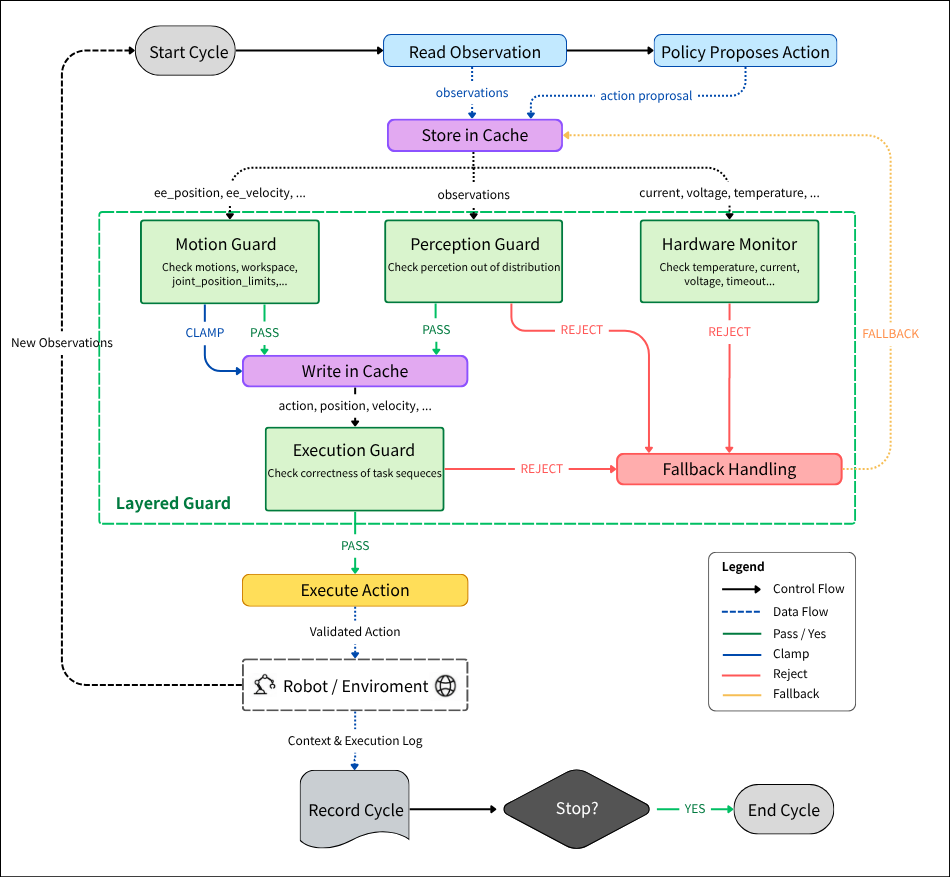
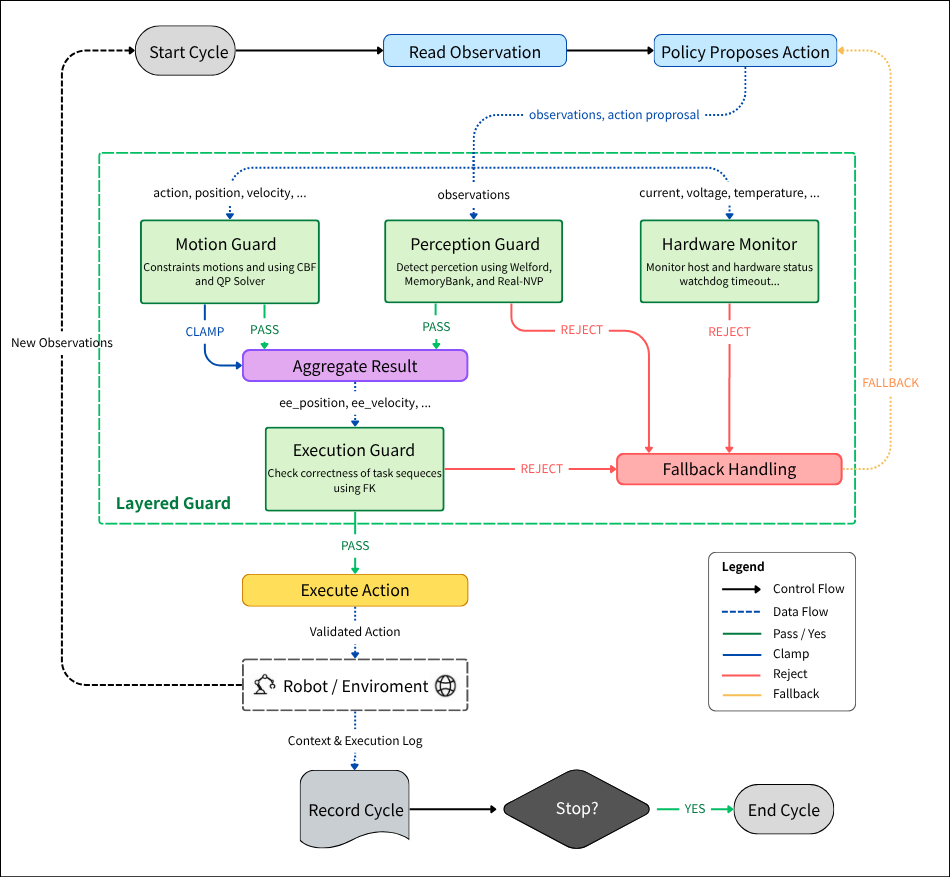
chore: update stackfiles, replay UI, risk log API, and docs diagram
Align stackfile examples with new L3 boundary callback schema. Update
replay page camera namespace, risk log router with enhanced filtering,
sidebar navigation, and runtime workflow diagram.

diff --git a/dam-console/src/components/McapCameraPlayer.tsx b/dam-console/src/components/McapCameraPlayer.tsx
@@ -276,20 +276,29 @@ export function McapCameraPlayer({
     setFrameIdx(nearestFrameIdx(refFrames, currentTimestampNs))
   }, [currentTimestampNs, framesMap, selectedCam, liveMode])
 
-  // Playback interval — fixed 100 ms tick (10 fps)
+  // Playback: advance frames at real-time speed based on actual timestamps.
   useEffect(() => {
     if (playIntervalRef.current) clearInterval(playIntervalRef.current)
     if (!playing || liveMode) return
-    const refFrames = selectedCam ? framesMap[selectedCam] : Object.values(framesMap)[0]
-    const total = refFrames?.length ?? 0
+    const refCamFrames = selectedCam ? framesMap[selectedCam] : Object.values(framesMap)[0]
+    const total = refCamFrames?.length ?? 0
     if (total === 0) return
+
+    // Compute median inter-frame interval for smooth playback at real speed
+    const intervals: number[] = []
+    for (let i = 1; i < Math.min(total, 100); i++) {
+      intervals.push((refCamFrames[i].log_time_ns - refCamFrames[i - 1].log_time_ns) / 1_000_000)
+    }
+    intervals.sort((a, b) => a - b)
+    const medianMs = intervals.length > 0 ? intervals[Math.floor(intervals.length / 2)] : 33
+    const tickMs = Math.max(16, Math.min(medianMs, 200))
 
     playIntervalRef.current = setInterval(() => {
       setFrameIdx(prev => {
         if (prev >= total - 1) { setPlaying(false); return prev }
         return prev + 1
       })
-    }, 100)
+    }, tickMs)
     return () => { if (playIntervalRef.current) clearInterval(playIntervalRef.current) }
   }, [playing, framesMap, selectedCam, liveMode])
 
@@ -353,7 +362,18 @@ export function McapCameraPlayer({
     setPlaying(false)
   }
 
-  const currentCams = liveMode ? liveCamList : cameras
+  const currentCams = (liveMode ? liveCamList : cameras).slice().sort((a, b) => {
+    const aReplay = a.startsWith('replay_') ? 0 : 1
+    const bReplay = b.startsWith('replay_') ? 0 : 1
+    if (aReplay !== bReplay) return aReplay - bReplay
+    const nameRank = (n: string) => {
+      const base = n.replace(/^replay_/, '')
+      if (base.includes('top')) return 0
+      if (base.includes('wrist')) return 1
+      return 2
+    }
+    return nameRank(a) - nameRank(b)
+  })
   const showGrid = gridMode && currentCams.length > 1
 
   return (
@@ -438,6 +458,13 @@ export function McapCameraPlayer({
               }
               const camFrames = framesMap[cam]
               const hasFrames = camFrames && camFrames.length > 0
+              // Time-sync: use the reference camera's timestamp to find the
+              // nearest frame in each camera independently, avoiding index-based
+              // drift when cameras have different frame counts.
+              const refTs = refFrames?.[frameIdx]?.log_time_ns
+              const camIdx = hasFrames && refTs != null
+                ? nearestFrameIdx(camFrames, refTs)
+                : hasFrames ? Math.min(frameIdx, camFrames.length - 1) : 0
               return (
                   <button
                     key={cam}
@@ -459,7 +486,7 @@ export function McapCameraPlayer({
                       <CameraCell
                         filename={filename}
                         cam={cam}
-                        frameIdx={hasFrames ? Math.min(frameIdx, camFrames.length - 1) : 0}
+                        frameIdx={camIdx}
                         tsNs={!hasFrames && currentTimestampNs != null ? currentTimestampNs : undefined}
                         label={cam}
                         compact

diff --git a/dam-console/src/lib/templates.ts b/dam-console/src/lib/templates.ts
@@ -114,8 +114,8 @@ type YamlSection = ScalarNode | BlockNode | ListNode | CustomNode | BlankNode
 
 const SO101_JOINTS: JointDef[] = [
   { name: 'shoulder_pan',  lower_rad: -1.8243, upper_rad:  1.8243 },
-  { name: 'shoulder_lift', lower_rad: -1.7691, upper_rad:  1.7691 },
-  { name: 'elbow_flex',    lower_rad: -1.6026, upper_rad:  1.6026 },
+  { name: 'shoulder_lift', lower_rad: -1.7500, upper_rad:  1.7500 },
+  { name: 'elbow_flex',    lower_rad: -1.8326, upper_rad:  1.8326 },
   { name: 'wrist_flex',    lower_rad: -1.8067, upper_rad:  1.8067 },
   { name: 'wrist_roll',    lower_rad: -3.0741, upper_rad:  3.0741 },
   { name: 'gripper',       lower_rad:  0,    upper_rad:  1.7453 },
@@ -197,7 +197,7 @@ function orderBoundaries(boundaries: BoundaryDef[]): BoundaryDef[] {
 }
 
 const DEFAULT_BOUNDARIES: BoundaryDef[] = orderBoundaries([...BASE_BOUNDARIES, GRIPPER_SEQUENCE_BOUNDARY])
-const REPLAY_BOUNDARIES: BoundaryDef[] = orderBoundaries([...BASE_BOUNDARIES])
+const REPLAY_BOUNDARIES: BoundaryDef[] = orderBoundaries([...BASE_BOUNDARIES, GRIPPER_SEQUENCE_BOUNDARY])
 
 const DEFAULT_FALLBACKS: FallbackDef[] = [
   { name: 'emergency_stop', type: 'emergency_stop', severity: 100, requires_proposal: false, monitors_hardware: false, description: 'Immediate full stop. Highest severity.', params: {}, escalate_to: null },
@@ -608,7 +608,7 @@ export function parseConfigFromYaml(yaml: string): Partial<DamConfig> {
   if (yaml.includes('type: motor') || yaml.includes('type: lerobot')) {
     result.adapter = 'lerobot'; result.lerobot_port = getVal(/port:\s*(.*)/);
     result.lerobot_robot_type = getVal(/robot_type:\s*(.*)/) || 'so101_follower';
-    result.lerobot_robot_id = getVal(/id:\s*(.*)/); result.lerobot_calibration_path = getVal(/calibration_path:\s*(.*)/) || '';
+    result.lerobot_robot_id = getVal(/(?<![_\w])id:\s*(.*)/); result.lerobot_calibration_path = getVal(/calibration_path:\s*(.*)/) || '';
     const motorBlock = /type:\s*(?:motor|lerobot)\s*\n([\s\S]*?)(?=\n\s{4}\w+:\s*\n|\n\s{2}sinks:)/.exec(yaml)?.[1] ?? ''
     const motorDegrees = /degrees_mode:\s*(true|false)/.exec(motorBlock)?.[1]
     result.lerobot_degrees_mode = (motorDegrees ?? 'true') === 'true'

diff --git a/dam-console/src/app/guard/page.tsx b/dam-console/src/app/guard/page.tsx
@@ -579,6 +579,13 @@ function NodeForm({
                       next.nll_sigma = 0
                       next.nll_threshold = sp.nll_threshold
                     }
+                    // Copy vision fusion params from model metadata so the
+                    // inference dimension always matches what the model was trained on.
+                    if (sp) {
+                      if (typeof sp.vision_model === 'string') next.vision_model = sp.vision_model
+                      if (typeof sp.vision_weight === 'number') next.vision_weight = sp.vision_weight
+                      if (typeof sp.vision_camera === 'string') next.vision_camera = sp.vision_camera
+                    }
                     onChange({ ...node, callback: 'ood_detector', params: next })
                   }}
                 />

diff --git a/dam-console/src/components/Sidebar.tsx b/dam-console/src/components/Sidebar.tsx
@@ -21,7 +21,7 @@ const NAV = [
   { href: '/', label: 'Dashboard', icon: LayoutDashboard, section: 'Monitor' },
   { href: '/risk-log', label: 'Risk Log', icon: AlertTriangle, section: 'Monitor' },
   { href: '/mcap-viewer', label: 'MCAP Sessions', icon: Film, section: 'Monitor' },
-  { href: '/replay', label: 'Replay', icon: RotateCcw, section: 'Monitor' },
+  { href: '/replay', label: 'Comparison', icon: RotateCcw, section: 'Monitor' },
   { href: '/experiments', label: 'Experiments', icon: FlaskConical, section: 'Monitor' },
   { href: '/config', label: 'Config', icon: Settings, section: 'Setup' },
   { href: '/guard', label: 'Guard', icon: ShieldCheck, section: 'Setup' },

diff --git a/dam-console/src/app/replay/page.tsx b/dam-console/src/app/replay/page.tsx
@@ -641,7 +641,7 @@ function ReplayContent() {
 export default function ReplayPage() {
   return (
     <PageShell
-      title="Replay Comparison"
+      title="Stackfile Comparison"
       subtitle="Recompute recorded cycles against a stackfile — see which guards would decide differently and what to tune"
     >
       <ReplayContent />

diff --git a/dam-console/src/components/RiskLogTable.tsx b/dam-console/src/components/RiskLogTable.tsx
@@ -336,7 +336,7 @@ function EventDetailPanel({ e }: { e: RiskEvent }) {
     layer: g.layer,
     decision: g.decision,
     reason: g.reason,
-    latency_ms: e.perf?.guards?.[g.name],
+    latency_ms: g.latency_ms ?? e.perf?.guards?.[g.name],
     metadata: g.metadata,
   }));
 

diff --git a/dam-console/src/lib/types.ts b/dam-console/src/lib/types.ts
@@ -31,6 +31,7 @@ export interface GuardStatus {
   event_class?: 'perception' | 'motion' | 'task' | 'hardware' | string
   decision: GuardDecision
   reason: string
+  latency_ms?: number | null
   metadata?: Record<string, unknown>
 }
 

diff --git a/dam/services/routers/risk_log.py b/dam/services/routers/risk_log.py
@@ -101,6 +101,57 @@ def create_risk_log_router(
                 continue
             if min_risk_level and _RISK_RANK.get(risk_level, 0) < _RISK_RANK.get(min_risk_level, 0):
                 continue
+
+            raw_guard_results = detail.get("guard_results", [])
+            guard_results = []
+            per_guard_latency: dict[str, float] = {}
+            hardware: dict[str, Any] = {}
+            for result in raw_guard_results:
+                meta = result.get("metadata") or {}
+                lat = result.get("latency_ms")
+                gname = result.get("guard_name", "")
+                if lat is not None:
+                    per_guard_latency[gname] = lat
+                for hw_key in ("temperatures", "currents", "voltages"):
+                    if hw_key in meta:
+                        hardware[hw_key] = meta[hw_key]
+                if "host_health" in meta:
+                    hardware["host_health"] = meta["host_health"]
+                guard_results.append(
+                    {
+                        "name": gname,
+                        "layer": result.get("layer_name", ""),
+                        "decision": result.get("decision_name", "PASS"),
+                        "reason": result.get("reason", ""),
+                        "latency_ms": lat,
+                        "metadata": meta,
+                    }
+                )
+
+            latency_raw = detail.get("latency", {})
+            stages = {
+                k: latency_raw.get(k, 0.0)
+                for k in ("source", "policy", "guards", "sink", "total")
+                if k in latency_raw
+            }
+            layers = {
+                k: latency_raw.get(k, 0.0) for k in ("L0", "L1", "L2", "L3") if k in latency_raw
+            }
+            perf = (
+                {
+                    "stages": stages,
+                    "layers": layers,
+                    "guards": per_guard_latency,
+                }
+                if stages
+                else None
+            )
+
+            obs_data = detail.get("observation") or {}
+            for hw_key in ("temperatures", "currents", "voltages"):
+                if hw_key not in hardware and hw_key in obs_data:
+                    hardware[hw_key] = obs_data[hw_key]
+
             events.append(
                 {
                     "event_id": -(int(cycle["cycle_id"]) + 1),
@@ -112,18 +163,9 @@ def create_risk_log_router(
                     "was_clamped": bool(detail.get("has_clamp")),
                     "was_rejected": bool(detail.get("has_violation")),
                     "fallback_triggered": (detail.get("action") or {}).get("fallback_triggered"),
-                    "guard_results": [
-                        {
-                            "name": result.get("guard_name", ""),
-                            "layer": result.get("layer_name", ""),
-                            "decision": result.get("decision_name", "PASS"),
-                            "reason": result.get("reason", ""),
-                            "metadata": result.get("metadata", {}),
-                        }
-                        for result in detail.get("guard_results", [])
-                    ],
-                    "latency_ms": detail.get("latency", {}),
-                    "perf": None,
+                    "guard_results": guard_results,
+                    "latency_ms": latency_raw,
+                    "perf": perf,
                     "mcap_filename": filename,
                     "failure_type": detail.get("failure_type"),
                     "failure_guard_names": detail.get("failure_guard_names", []),
@@ -133,7 +175,7 @@ def create_risk_log_router(
                     "failure_tuple": detail.get("failure_tuple"),
                     "observation": detail.get("observation"),
                     "action": detail.get("action"),
-                    "hardware": None,
+                    "hardware": hardware or None,
                 }
             )
             if len(events) >= limit:
